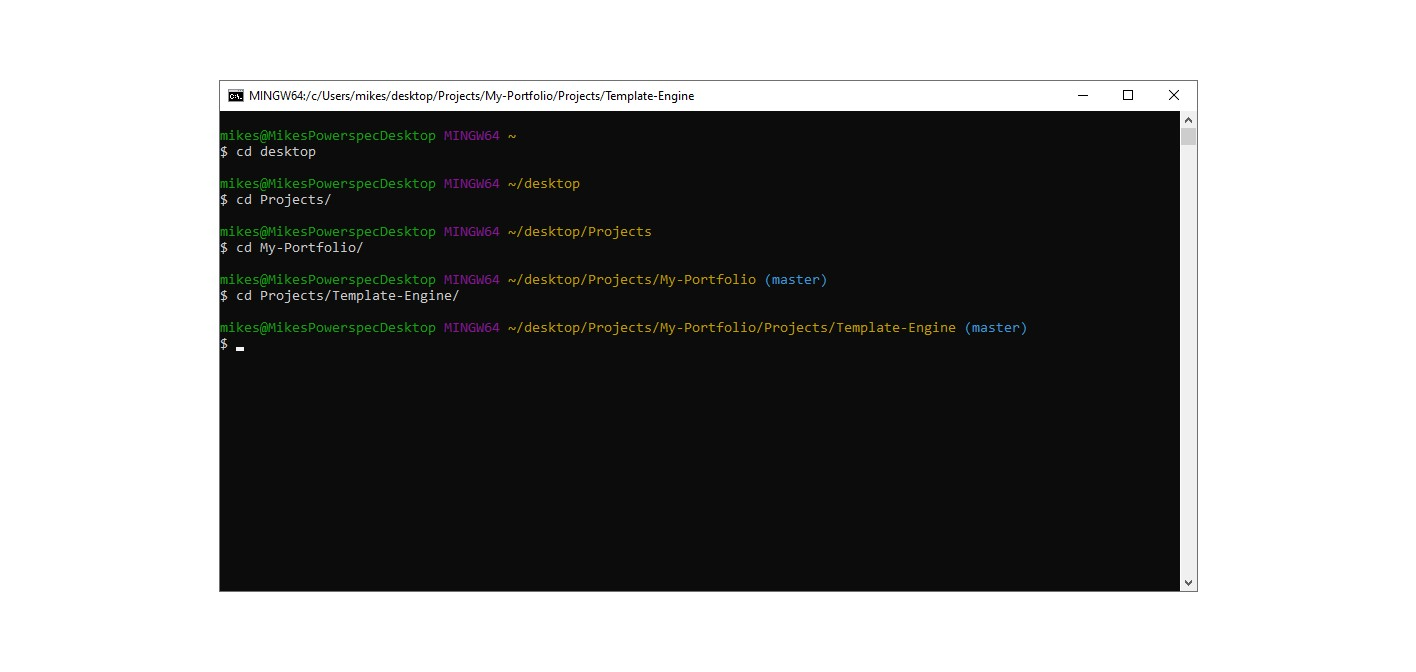
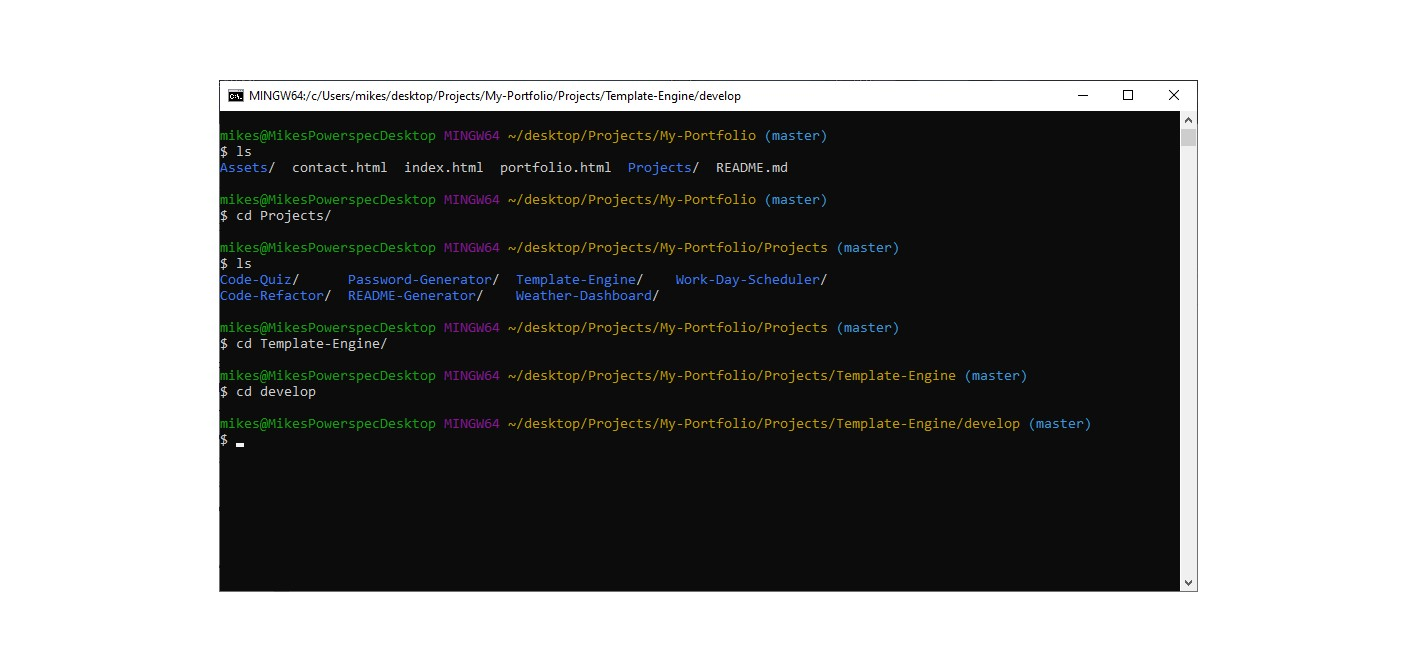
Updated readme.md so that it tells the user to run npm init and npm install inside of the develop folder instead of the Template-Engine folder

diff --git a/Projects/Template-Engine/Develop/output/team.html b/Projects/Template-Engine/Develop/output/team.html
@@ -25,26 +25,39 @@
             <div class="team-area col-12 d-flex justify-content-center">
                 <div class="card employee-card">
     <div class="card-header">
-        <h2 class="card-title">Randy John</h2>
-        <h3 class="card-title"><i class="fas fa-glasses mr-2"></i>Engineer</h3>
+        <h2 class="card-title">Grant Scriver</h2>
+        <h3 class="card-title"><i class="fas fa-mug-hot mr-2"></i>Manager</h3>
     </div>
     <div class="card-body">
         <ul class="list-group">
-            <li class="list-group-item">ID: 5</li>
-            <li class="list-group-item">Email: <a href="mailto:randyjohn@gmail.com">randyjohn@gmail.com</a></li>
-            <li class="list-group-item">GitHub: <a href="https://github.com/randyjohn" target="_blank" rel="noopener noreferrer">randyjohn</a></li>
+            <li class="list-group-item">ID: 3</li>
+            <li class="list-group-item">Email: <a href="mailto:grantscriver@gmail.com">grantscriver@gmail.com</a></li>
+            <li class="list-group-item">Office number: 1</li>
         </ul>
     </div>
 </div>
 <div class="card employee-card">
     <div class="card-header">
-        <h2 class="card-title">Grant Scriver</h2>
+        <h2 class="card-title">Mike Scriver</h2>
+        <h3 class="card-title"><i class="fas fa-glasses mr-2"></i>Engineer</h3>
+    </div>
+    <div class="card-body">
+        <ul class="list-group">
+            <li class="list-group-item">ID: 1</li>
+            <li class="list-group-item">Email: <a href="mailto:mikescriver@gmail.com">mikescriver@gmail.com</a></li>
+            <li class="list-group-item">GitHub: <a href="https://github.com/mikescriver" target="_blank" rel="noopener noreferrer">mikescriver</a></li>
+        </ul>
+    </div>
+</div>
+<div class="card employee-card">
+    <div class="card-header">
+        <h2 class="card-title">Oliver Scriver</h2>
         <h3 class="card-title"><i class="fas fa-user-graduate mr-2"></i>Intern</h3>
     </div>
     <div class="card-body">
         <ul class="list-group">
-            <li class="list-group-item">ID: 4</li>
-            <li class="list-group-item">Email: <a href="mailto:grantscriver@gmail.com">grantscriver@gmail.com</a></li>
+            <li class="list-group-item">ID: 2</li>
+            <li class="list-group-item">Email: <a href="mailto:om@gmail.com">om@gmail.com</a></li>
             <li class="list-group-item">School: Edina High School</li>
         </ul>
     </div>

diff --git a/Projects/Template-Engine/README.md b/Projects/Template-Engine/README.md
@@ -1,5 +1,7 @@
 # Employee Template-Engine
 
+![Git clone command](./Assets/ExampleSite.jpg)
+
 ## Description:
 
 This application uses Node.js to question the user about employees with a command line. It takes the user's input and creates a an HTML page containing information about the employees.
@@ -20,10 +22,10 @@ This application uses Node.js to question the user about employees with a comman
 1. Install node.js onto your computer. The link can be be found [here](https://nodejs.org/en/)
 2. Change directories to where you want it, then clone the repository by copying this link on [github](https://github.com/grantscriver/My-Portfolio.git) ![Screenshot of repo](./Assets/gitclone.jpg)
 3. Clone the repo using the git clone command ![Git clone command](./Assets/gitclonecommand.jpg)
-4. Change directories into the "Template-Engine" ![Directory Folder](./Assets/cdfoldertemplate-engine.jpg)
+4. Change directories into the "Template-Engine/Develop" ![Directory Folder](./Assets/cdfoldertemplate-engine.jpg)
 5. Run "npm init" ![npm init](./Assets/npm-init.jpg)
 6. Then enter "npm i" or "npm install" ![npm install](./Assets/npm-install.jpg)
-7. Change directories into the "Develop" folder then run the node app.js command and then follow the prompts ![node app.js](./Assets/nodeappjs.jpg)
+7. Run the node app.js command and then follow the prompts ![node app.js](./Assets/nodeappjs.jpg)
 
 ## Usage:
 
@@ -39,7 +41,7 @@ The application was test with node test and passed all the tests. ![npm test](./
 
 ## Demonstration
 
-[Link to video demonstration](https://drive.google.com/file/d/1-7TTd1RGfoET6CBfoY7-xR8Q0GAp41US/view)
+[Link to video demonstration](https://drive.google.com/file/d/1obyjZVlLBaFWYcI999cdYUNDS-ZJysEc/view)
 
 ## Questions
 
